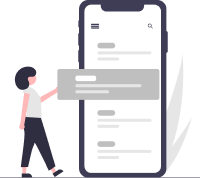
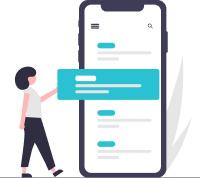
added color palette to tailwind.config file and added colors to the TasksPage

diff --git a/src/pages/TasksPage/TasksPage.jsx b/src/pages/TasksPage/TasksPage.jsx
@@ -33,7 +33,7 @@ const TasksPage = () => {
 
     return (
         <section className="bg-background w-[100vw] h-[100vh] p-4">
-            <div className="w-[100%] flex justify-between items-center border-b border-divider pb-2">
+            <div className="w-[100%] flex justify-between items-center border-b border-text3 pb-2">
                 <h4 className="text-header4">Tasks</h4>
                 <svg xmlns="http://www.w3.org/2000/svg" width="24" height="24" viewBox="0 0 24 24" fill="none">
                     <path d="M10 18H14V16H10V18ZM3 6V8H21V6H3ZM6 13H18V11H6V13Z" fill="#0F0129" />
@@ -44,7 +44,7 @@ const TasksPage = () => {
                     <div className="h-[650px] flex flex-col justify-center items-center gap-4">
                         <img src={heroImg} alt="a graphic with a girl standing next to big phone, managing tasks" className="w-[200px]" />
                         <h5 className="text-subtitle">Start adding your tasks!</h5>
-                        <p className="text-caption text-light-text text-center w-[200px]">Plan your day by adding tasks and allocating your energy among them.</p>
+                        <p className="text-caption text-text2 text-center w-[200px]">Plan your day by adding tasks and allocating your energy among them.</p>
                     </div>
                     :
                     <div>
@@ -57,7 +57,7 @@ const TasksPage = () => {
                         </ul>
                     </div>
             }
-            <button className="flex gap-3 fixed bottom-px right-px p-4 m-4 shadow-box-shadow rounded-2xl bg-primary" onClick={openModal}>
+            <button className="flex gap-3 fixed bottom-px right-px p-4 m-4 shadow-box-shadow rounded-2xl bg-accent" onClick={openModal}>
                 <svg xmlns="http://www.w3.org/2000/svg" width="24" height="24" viewBox="0 0 24 24" fill="none">
                     <path d="M19 13H13V19H11V13H5V11H11V5H13V11H19V13Z" fill="#0F0129" />
                 </svg>

diff --git a/src/components/AddTaskModal/AddTaskModal.jsx b/src/components/AddTaskModal/AddTaskModal.jsx
@@ -41,7 +41,7 @@ const AddTaskModal = ({ setShowModal }) => {
     }
 
     return (
-        <section className=" bg-modal-background w-[100vw] h-[100vh] flex justify-center items-center fixed top-0">
+        <section className=" bg-text2 w-[100vw] h-[100vh] flex justify-center items-center fixed top-0">
             <article className="bg-background w-[328px] h-[221px] p-6 rounded-4xl">
                 <form onSubmit={handleSubmit}>
                     <h4 className="text-header4 mt-0 mb-2">Add Task</h4>
@@ -52,7 +52,7 @@ const AddTaskModal = ({ setShowModal }) => {
                                 name="task"
                                 type="text"
                                 id="task"
-                                className="border-solid border border-[#79747E] rounded h-12 text-caption p-4 w-[100%]"
+                                className="border-solid border border-[#79747E] rounded h-12 text-caption p-4 w-[100%] outline-primary"
                                 placeholder="Type the name of your task"
                                 value={taskName}
                                 onChange={handleChange}
@@ -69,7 +69,7 @@ const AddTaskModal = ({ setShowModal }) => {
                     </div>
                     <div className="flex justify-end gap-2">
                         <button type="submit" className="btn-modal" onClick={() => setShowModal(false)}>Cancel</button>
-                        <button disabled={activeButton} className="btn-modal">Add</button>
+                        <button disabled={activeButton} className="btn-modal text-primary">Add</button>
                     </div>
                 </form>
             </article>

diff --git a/tailwind.config.js b/tailwind.config.js
@@ -6,17 +6,26 @@ export default {
   ],
   theme: {
     colors: {
-      'primary': '#BBBBBB',
-      'secondary': 'rgba(15, 1, 41, 0.10)',
-      'accent': '#5D13E7',
-      'text': '#0F0129',
-      'background': '#FDFCFC',
-      'navbar-background': '#E5E3E7',
-      'modal-background':'rgba(0, 0, 0, 0.70)',
-      'disabled': "rgba(15, 1, 41, 0.25)",
-      'onhover-btn': 'rgba(189, 242, 213, 0.25)',
-      'divider': '#BBBBBB',
-      'light-text': 'rgba(15, 1, 41, 0.50)',
+      'primary': '#23A1AF',
+      'primary1': 'rgba(35, 161, 175, 0.75)',
+      'primary2':'rgba(35, 161, 175, 0.50)',
+      'primary3':'rgba(35, 161, 175, 0.25)',
+      'accent': '#F7559E',
+      'accent1': 'rgba(247, 85, 158, 0.75)',
+      'accent2': 'rgba(247, 85, 158, 0.50)',
+      'accent3': 'rgba(247, 85, 158, 0.25)',
+      'text': '#001111',
+      'text1': 'rgba(0, 17, 17, 0.75)',
+      'text2': 'rgba(0, 17, 17, 0.50)',
+      'text3': 'rgba(0, 17, 17, 0.25)',
+      'background': '#FCFEFE',
+      'link': '#285ED7',
+      'success': '#41993F',
+      'success1': 'rgba(65, 153, 63, 0.75)',
+      'success2': 'rgba(65, 153, 63, 0.50)',
+      'success3': 'rgba(65, 153, 63, 0.25)',
+      'error': '#D61F14',
+      "navbar-background": '#E5E3E7',
 
     },
     fontFamily: {

diff --git a/src/index.css b/src/index.css
@@ -4,6 +4,6 @@
 
 @layer components {
     .btn-modal {
-      @apply text-button-text disabled:text-disabled py-2.5 px-3 enabled:hover:bg-onhover-btn hover:rounded-full
+      @apply text-button-text disabled:text-text3 py-2.5 px-3 enabled:hover:bg-primary3 hover:rounded-full
     }
   }
